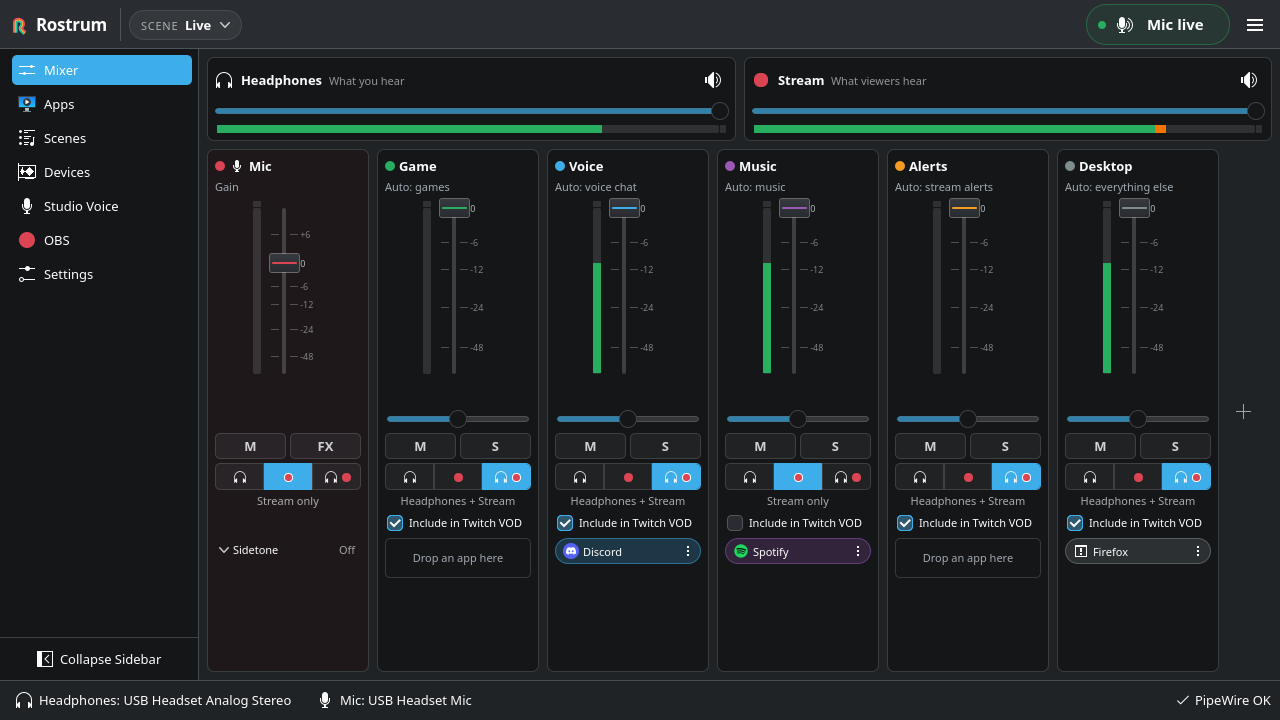
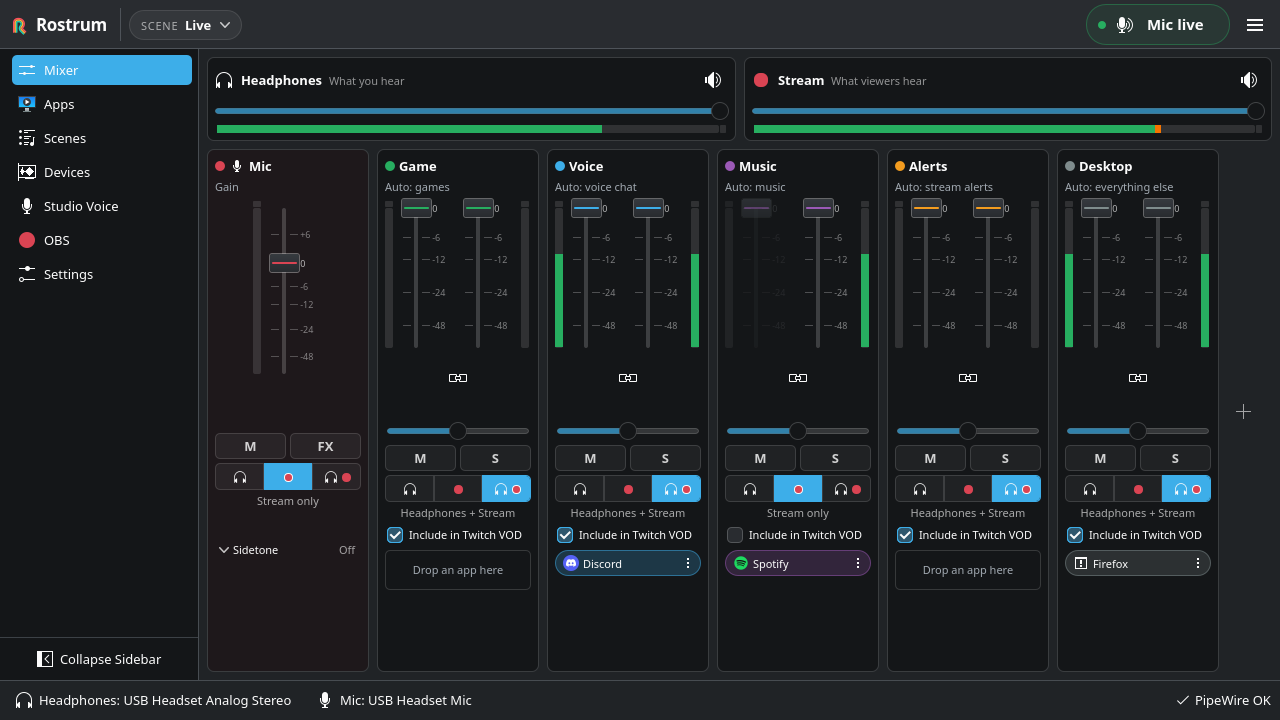
Docs: Mixer screenshot with Headphones and Stream faders
Refresh the README shot so it matches the linked per-mix levels on
every playback strip.

Changed region(s): [[0.2812, 0.5806, 0.9688, 0.825], [0.2812, 0.275, 0.9688, 0.5194]]

diff --git a/README.md b/README.md
@@ -16,7 +16,7 @@
 
 > *A stream mix console for Linux, not a patchbay.*
 
-![The Mixer: Headphones and Stream masters, then six buses with faders, mute, solo, destinations and the apps on each bus, and FX for the mic filters](docs/screenshots/mixer.png)
+![The Mixer: Headphones and Stream masters, then six buses with Headphones and Stream faders (linked), mute, solo, destinations and the apps on each bus, and FX for the mic filters](docs/screenshots/mixer.png)
 
 
 ## 🌟 Highlights
